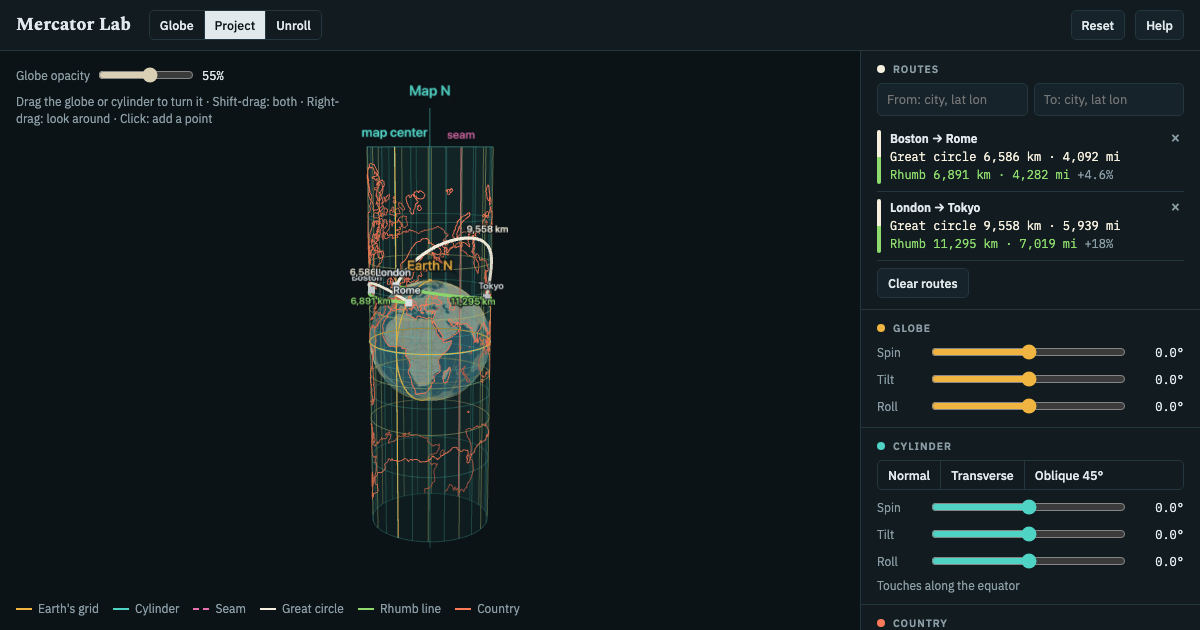
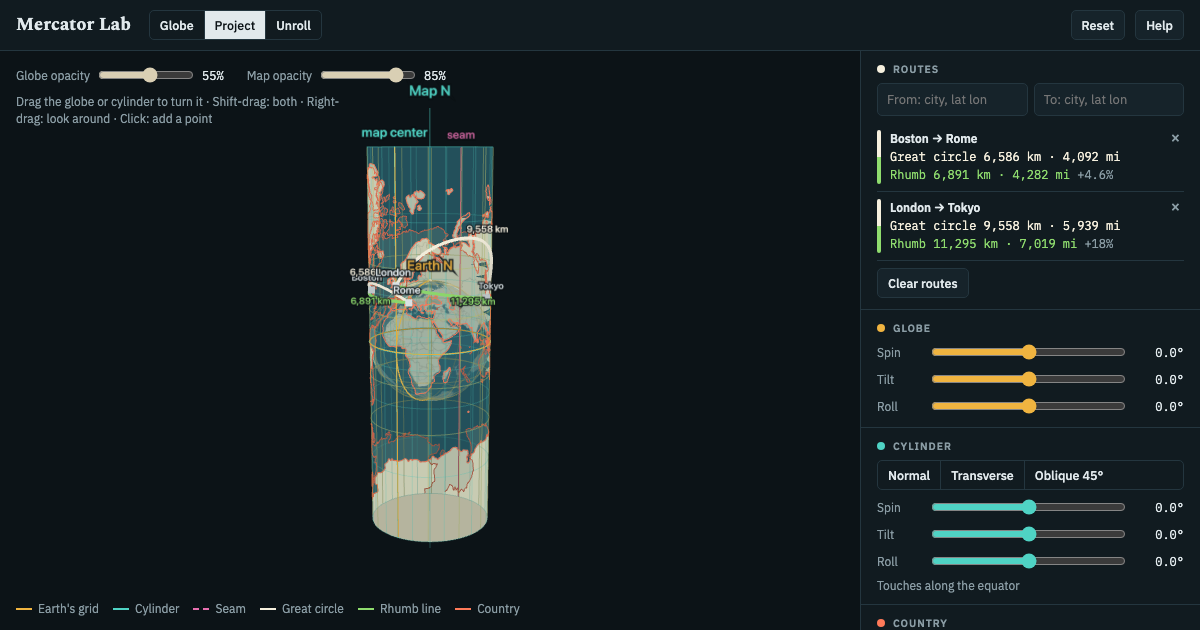
Filled map on the cylinder and wall map, with Map opacity

Changed region(s): [[0.3083, 0.2111, 0.4317, 0.8746], [0.2467, 0.0905, 0.37, 0.1508], [0.2158, 0.1206, 0.2467, 0.1508]]

diff --git a/app.js b/app.js
@@ -29,7 +29,7 @@ const SRC = {
   eq: toVecs([parallel(0), meridian(0)]),
   hi: [],
 };
-let HI = { name: "", centroid: [0, 0] };
+let HI = { name: "", centroid: [0, 0], poly: null };
 function setCountry(name) {
   const f = FEATURES.find(f => f.properties.name.toLowerCase() === name.toLowerCase());
   if (!f) return false;
@@ -37,7 +37,8 @@ function setCountry(name) {
   // keep the largest part (contiguous US, mainland France...)
   let best = polys[0], bestA = -1;
   for (const p of polys) { const a = d3.geoArea({ type: "Polygon", coordinates: p }); if (a < 2 * Math.PI && a > bestA) { bestA = a; best = p; } }
-  HI = { name: f.properties.name, centroid: d3.geoCentroid({ type: "Polygon", coordinates: best }) };
+  HI = { name: f.properties.name, centroid: d3.geoCentroid({ type: "Polygon", coordinates: best }), poly: { type: "Polygon", coordinates: best } };
+  mapKey = "";
   SRC.hi = toVecs(best);
   dirty = true;
   return true;
@@ -49,7 +50,7 @@ $("countries").innerHTML = FEATURES.map(f => f.properties.name).sort().map(n => 
 const S = {
   G: ident(), C: ident(),   // globe and cylinder rotations, geo frame
   step: 0, s: 0, cylOn: false,
-  globeOpacity: 0.55,
+  globeOpacity: 0.55, mapOpacity: 0.85,
   routes: [], from: null,   // from: {c, name} waiting for a To
   A: null,                  // frozen map: projected segments on the cylinder
   moved: null,              // {G0}: the globe before a country was moved
@@ -159,6 +160,45 @@ const cylStatics = [cylSurface];
   const s = label("seam", COL.seam, 0.36); s.position.set(0, MAXH + 0.2, -1); cyl.add(s); cylStatics.push(s);
   const m = label("map center", COL.cyl, 0.36); m.position.set(0, MAXH + 0.2, 1); cyl.add(m); cylStatics.push(m);
 })();
+
+// filled map on the cylinder and the wall map: a Mercator picture of the map as it sits now, redrawn when it changes
+const BORDERS = topojson.mesh(WORLD, WORLD.objects.countries, (a, b) => a !== b);
+const mapCanvas = document.createElement("canvas"); mapCanvas.width = 1024; mapCanvas.height = Math.round(1024 * MAXH / Math.PI);
+const mapTex = new THREE.CanvasTexture(mapCanvas); mapTex.anisotropy = 4;
+const mapMat = new THREE.MeshBasicMaterial({ map: mapTex, transparent: true, opacity: 0, side: THREE.DoubleSide, depthWrite: false, fog: false });
+const MAPN = [96, 32]; // grid of the sheet in θ and h
+const mapGeo = (() => {
+  const g = new THREE.BufferGeometry(), uv = [], idx = [], [NT, NH] = MAPN;
+  for (let j = 0; j <= NH; j++) for (let i = 0; i <= NT; i++) uv.push(i / NT, j / NH);
+  for (let j = 0; j < NH; j++) for (let i = 0; i < NT; i++) { const a = j * (NT + 1) + i, b = a + NT + 1; idx.push(a, a + 1, b, a + 1, b + 1, b); }
+  g.setAttribute("position", new THREE.BufferAttribute(new Float32Array((NT + 1) * (NH + 1) * 3), 3));
+  g.setAttribute("uv", new THREE.Float32BufferAttribute(uv, 2));
+  g.setIndex(idx);
+  return g;
+})();
+const mapMesh = new THREE.Mesh(mapGeo, mapMat); mapMesh.frustumCulled = false; mapMesh.renderOrder = -1; scene.add(mapMesh);
+let mapKey = "", mapDrawn = 0, mapTimer = 0;
+function drawMap(force) {
+  const base = S.moved && S.A ? S.A.M : M();
+  const key = JSON.stringify([base, M(), HI.name, !!S.moved]);
+  if (key === mapKey) return;
+  const now = performance.now();
+  if (!force && now - mapDrawn < 120) { clearTimeout(mapTimer); mapTimer = setTimeout(() => { dirty = true; drawMap(true); }, 130); return; } // at most ~8 redraws a second while dragging
+  mapKey = key; mapDrawn = now;
+  const W = mapCanvas.width, H = mapCanvas.height, g = mapCanvas.getContext("2d");
+  const proj = R => d3.geoMercator().rotate(euler(R)).scale(W / (2 * Math.PI)).translate([W / 2, H / 2]).precision(0.5).clipExtent([[0, 0], [W, H]]);
+  g.fillStyle = "#1f4552"; g.fillRect(0, 0, W, H);
+  const p = d3.geoPath(proj(base), g);
+  g.beginPath(); p(LANDGEO); g.fillStyle = "#d9cfb4"; g.fill();
+  g.beginPath(); p(BORDERS); g.strokeStyle = "rgba(40,40,30,0.45)"; g.lineWidth = 0.8; g.stroke();
+  if (HI.poly) { const q = d3.geoPath(proj(M()), g); g.beginPath(); q(HI.poly); g.fillStyle = S.moved ? "rgba(255,122,89,0.75)" : "rgba(255,122,89,0.35)"; g.fill(); }
+  mapTex.needsUpdate = true;
+}
+function placeMap(s) {
+  const a = mapGeo.attributes.position.array, [NT, NH] = MAPN, u = ease(Math.max(0, Math.min(1, s - 1)));
+  for (let j = 0, o = 0; j <= NH; j++) for (let i = 0; i <= NT; i++, o += 3) cylWorld(-Math.PI + 2 * Math.PI * i / NT, -MAXH + 2 * MAXH * j / NH, u, S.C, a, o);
+  mapGeo.attributes.position.needsUpdate = true;
+}
 
 // dynamic line layers ----
 function dynLines(color, opacity, max = 120000) {
@@ -379,6 +419,10 @@ function rebuild() {
   cylStatics.forEach(o => { o.visible = u < 0.02; });
 
   const on = S.cylOn;
+  // the fill fades in over the second half of Project
+  const fill = on ? S.mapOpacity * Math.max(0, Math.min(1, (s - 0.5) * 2)) : 0;
+  mapMesh.visible = fill > 0.001; mapMat.opacity = fill;
+  if (mapMesh.visible) { drawMap(); placeMap(s); }
   writeLines(L.wire, scratch, on ? placeOnCyl(WIRE.w, s, Cg, scratch) : 0);
   writeLines(L.wireHi, scratch, on ? placeOnCyl(WIRE.hi, s, Cg, scratch) : 0);
   writeLines(L.seam, scratch, on ? placeOnCyl(WIRE.seam, s, Cg, scratch) : 0);
@@ -493,7 +537,7 @@ function showCylinder() { if (S.step === 0) setStep(2); }
 // ---------------- country, freeze ----------------
 function freeze() {
   const Mr = M(), segsOf = lines => projectLines(lines, Mr).segs;
-  S.A = { coast: segsOf(SRC.coast), eq: segsOf(SRC.eq), hi: segsOf(SRC.hi) };
+  S.A = { M: Mr, coast: segsOf(SRC.coast), eq: segsOf(SRC.eq), hi: segsOf(SRC.hi) };
   dirty = true;
 }
 // turn the globe so the country's center lands on t (cylinder lon/lat), north kept up; the map before stays frozen
@@ -626,6 +670,7 @@ for (const i of [0, 2, 3]) $("st" + i).onclick = () => setStep(i);
 $("pr-normal").onclick = () => { showCylinder(); animateTo(S.G, ident()); };
 $("pr-trans").onclick = () => { showCylinder(); animateTo(S.G, d3R(0, 0, -90)); };
 $("pr-obl").onclick = () => { showCylinder(); animateTo(S.G, d3R(0, 0, -45)); };
+$("mapOpacity").addEventListener("input", e => { S.mapOpacity = +e.target.value / 100; $("mapo").textContent = e.target.value + "%"; dirty = true; });
 $("opacity").addEventListener("input", e => { S.globeOpacity = +e.target.value / 100; $("opo").textContent = e.target.value + "%"; dirty = true; });
 $("clearRoutes").onclick = () => { S.routes = []; S.from = null; $("from").value = ""; $("to").value = ""; routesChanged(); };
 $("country").addEventListener("change", e => { if (!setCountry(e.target.value)) e.target.value = HI.name; });
@@ -638,6 +683,7 @@ $("reset").onclick = async () => {
   arm(false); S.A = null; S.from = null; $("from").value = ""; $("to").value = "";
   if (S.moved) { S.moved = null; routesVer++; renderRoutes(); }
   S.globeOpacity = 0.55; $("opacity").value = 55; $("opo").textContent = "55%";
+  S.mapOpacity = 0.85; $("mapOpacity").value = 85; $("mapo").textContent = "85%";
   if (S.step === 3) { await animateTo(ident(), ident(), 700); faceSheet(); }
   else { animateTo(ident(), ident(), 700); cameraTo({ ...CAM0, dist: S.step === 0 ? CAM0.dist : CAMCYL }, [0, 1, 0], 700); }
 };
@@ -670,4 +716,5 @@ window.addEventListener("DOMContentLoaded", () => requestAnimationFrame(frame));
 window.__lab = { S, M, hi: () => HI, globe: () => ({ opacity: globeMat.opacity, depthWrite: globeMat.depthWrite }),
   screenOf: p => { scene.updateMatrixWorld(); const v = new THREE.Vector3(...p).project(camera), r = cv.getBoundingClientRect(); return [r.left + (v.x + 1) / 2 * r.width, r.top + (1 - v.y) / 2 * r.height]; },
   idle: () => running === 0 && !dirty, freeze, moveCountryTo, putBack, setStep, setCountry, animateTo,
+  map: () => ({ visible: mapMesh.visible, opacity: mapMat.opacity }),
   counts: () => Object.assign(Object.fromEntries(Object.entries(L).map(([k, o]) => [k, o.geometry.drawRange.count])), { routes: routeGroup.children.length }) };

diff --git a/e2e/smoke.spec.js b/e2e/smoke.spec.js
@@ -117,9 +117,13 @@ test('Project brings the cylinder with the map on it; Globe takes both away', as
   let c = await counts(page);
   expect(c.wire).toBeGreaterThan(0);
   expect(c.coast).toBeGreaterThan(0);
+  expect(await page.evaluate(() => window.__lab.map())).toEqual({ visible: true, opacity: 0.85 });   // filled map
+  await page.locator('#mapOpacity').fill('30');
+  expect((await page.evaluate(() => window.__lab.map())).opacity).toBeCloseTo(0.3);
   await page.locator('#pr-trans').click(); await idle(page);
   await expect(page.locator('#touch')).toHaveText('Touches along the 0° meridian');
   await page.locator('#st0').click(); await idle(page);
+  expect((await page.evaluate(() => window.__lab.map())).visible).toBe(false);   // no fill without the cylinder
   c = await counts(page);
   expect(c.wire + c.coast).toBe(0);
   await page.locator('#pr-obl').click(); await idle(page);   // turning the cylinder at Globe projects

diff --git a/index.html b/index.html
@@ -160,7 +160,10 @@ kbd { font: 500 11px var(--f-data); border: 1px solid var(--line); border-radius
   <main>
     <section id="bench" aria-label="3D globe and cylinder">
       <div class="overlay">
+        <div class="grp" style="flex-wrap:wrap;gap:6px 16px">
         <label class="inl" for="opacity">Globe opacity <input type="range" id="opacity" min="0" max="100" step="1" value="55"><output id="opo">55%</output></label>
+        <label class="inl cylOnly" for="mapOpacity">Map opacity <input type="range" id="mapOpacity" min="0" max="100" step="1" value="85"><output id="mapo">85%</output></label>
+        </div>
         <div class="hint" id="dragHint"></div>
       </div>
       <div class="legend">

diff --git a/help.html b/help.html
@@ -57,7 +57,7 @@
       <li>The map depends only on how the globe sits inside the cylinder. <b>Normal</b> touches along the equator,
         <b>Transverse</b> along a meridian, <b>Oblique</b> along a tilted circle. Turning both together changes
         nothing.</li>
-      <li><b>Globe opacity</b> sets how see-through the globe is.</li>
+      <li><b>Globe opacity</b> and <b>Map opacity</b> set how see-through the globe and the filled map on the cylinder are.</li>
       <li><b>Reset</b> puts the globe, cylinder and view back where this step starts; the step and routes stay.</li>
     </ul>
   </section>
